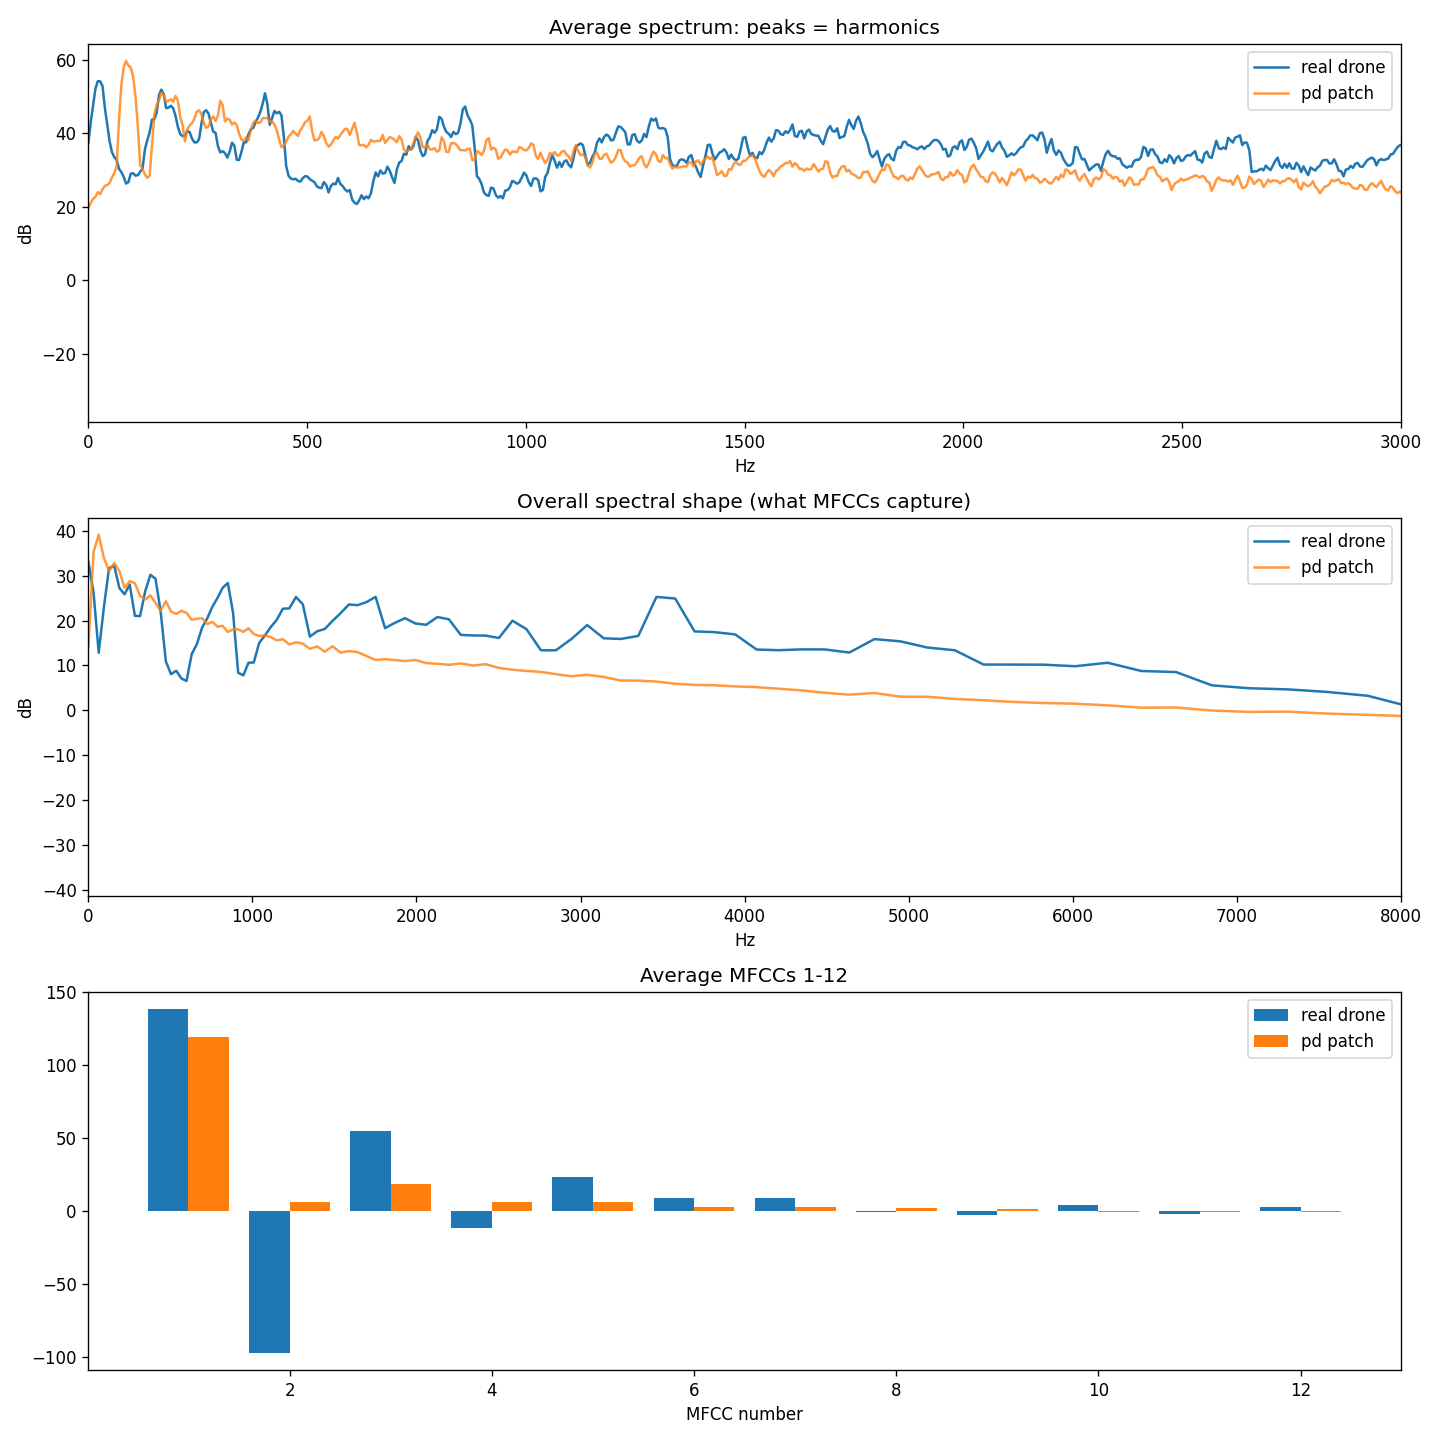
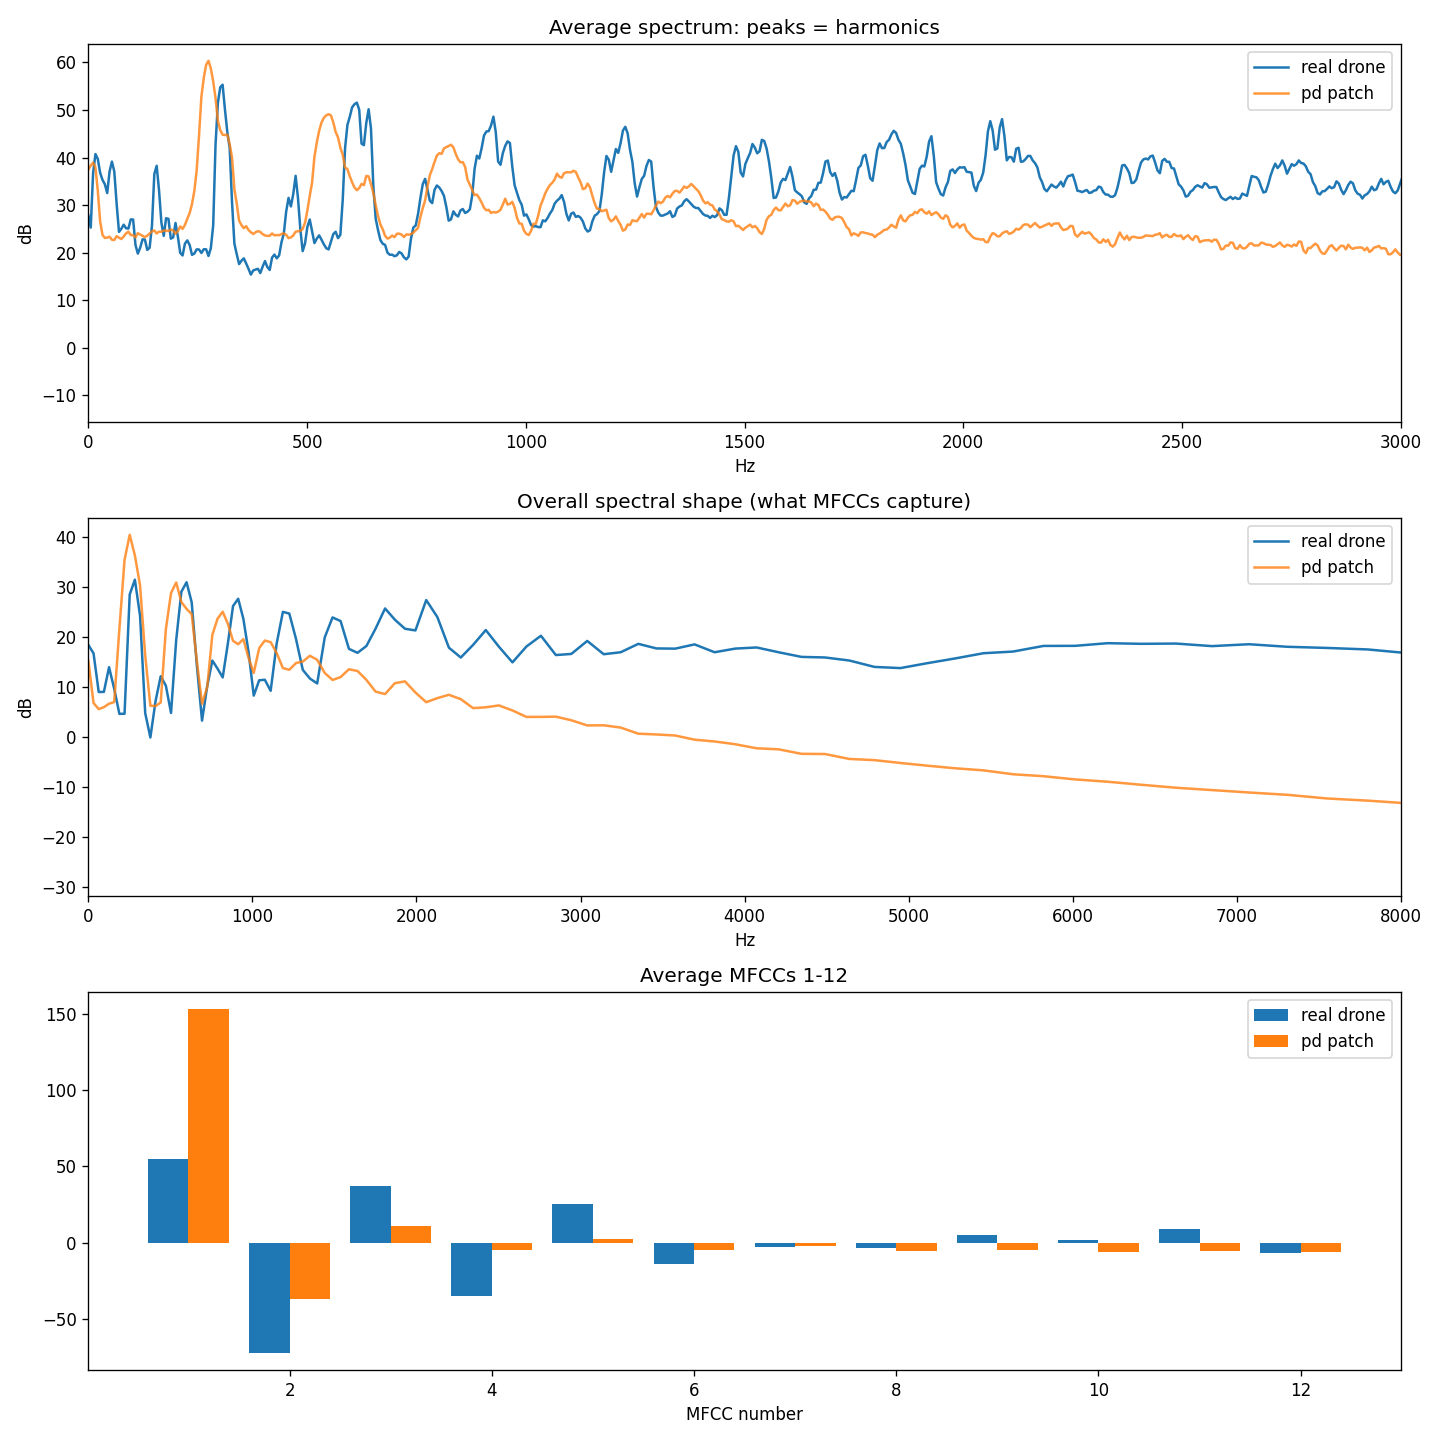
Stuff
some testing + reaper project

diff --git a/MFCC_Drone_PureData (Analyzes Only)/compare.py b/MFCC_Drone_PureData (Analyzes Only)/compare.py
@@ -3,9 +3,9 @@ import numpy as np
 import matplotlib.pyplot as plt
 from scipy.signal import find_peaks
 
-REAL_FILE, REAL_START = "fpv_drone.wav", 0      # stable stretch of the real drone
-PD_FILE,   PD_START   = "pd_drone_3.wav", 2   # skip the first 2 s of the patch
-DURATION = 1.8
+REAL_FILE, REAL_START = "glasgow_d12.wav", 0      # stable stretch of the real drone
+PD_FILE,   PD_START   = "pd_drone.wav", 0   # skip the first 2 s of the patch
+DURATION = 10
 SR = 44100
 N_FFT = 8192
 HOP = 512

diff --git a/DEMO Test (Reaper)/stems/ATTRIBUTION.md b/DEMO Test (Reaper)/stems/ATTRIBUTION.md
@@ -1,0 +1,97 @@
+# Attribution: war and distracter stems
+
+The WAV files under `war/` and `distracter/` are processed excerpts (mono, at most 10 s, level-normalised,
+some denoised; `scripts/build_stems.py`) of clips from FSD50K (Fonseca et al., "FSD50K: an open dataset of
+human-labeled sound events", IEEE/ACM TASLP 30, 2022; https://zenodo.org/records/4060432), originally from
+Freesound (https://freesound.org). Each clip keeps its own licence, listed below with its uploader.
+CC BY clips require this attribution to stay with them. `manifest.csv` holds the full processing record.
+
+`data/processed/war/war_track.wav` (101 MB) is not in git: GitHub refuses files over 100 MB. It is rebuilt
+exactly from these stems and a fixed seed by `scripts/war_track.py`; its `events.csv` and `phases.csv` are here.
+
+| File | Class | FSD50K id (split) | Title | Uploader | Licence |
+|---|---|---|---|---|---|
+| `distracter/aircraft/fsd50k_eval_122807.wav` | aircraft | 122807 (eval) | plane_air_italy_boeing.mp3 | geodylabs | CC BY 3.0 |
+| `distracter/aircraft/fsd50k_eval_221665.wav` | aircraft | 221665 (eval) | CommercialJetTakeoffBinaural.WAV | daveincamas | CC BY 3.0 |
+| `distracter/aircraft/fsd50k_eval_325845.wav` | aircraft | 325845 (eval) | Airplane inside ambient- cessna 414. condenser .mp3 | Daveshu88 | CC0 1.0 |
+| `distracter/birds/fsd50k_eval_417743.wav` | birds | 417743 (eval) | amb-bird-chirping-001.flac | Starscade | CC0 1.0 |
+| `distracter/birds/fsd50k_eval_427369.wav` | birds | 427369 (eval) | birds swarm in bush.wav | Douglas711 | CC0 1.0 |
+| `distracter/buzzing_insect/fsd50k_dev_233783.wav` | buzzing_insect | 233783 (dev) | BUMBLEBEE 12.wav | delphidebrain | CC BY 3.0 |
+| `distracter/buzzing_insect/fsd50k_dev_273214.wav` | buzzing_insect | 273214 (dev) | BeesBuzzing2May2nd2015bitrate48.WAV | kvgarlic | CC0 1.0 |
+| `distracter/buzzing_insect/fsd50k_eval_395593.wav` | buzzing_insect | 395593 (eval) | Fly.wav | BeeProductive | CC0 1.0 |
+| `distracter/car/fsd50k_eval_336754.wav` | car | 336754 (eval) | Car Drive by 03.WAV | luminadii | CC BY 3.0 |
+| `distracter/car/fsd50k_eval_336758.wav` | car | 336758 (eval) | Car drive by 05.WAV | luminadii | CC BY 3.0 |
+| `distracter/car/fsd50k_eval_336762.wav` | car | 336762 (eval) | Car drive by 07.WAV | luminadii | CC BY 3.0 |
+| `distracter/chainsaw/fsd50k_dev_157611.wav` | chainsaw | 157611 (dev) | Exterior_Chainsaw.wav | DJillcom | CC0 1.0 |
+| `distracter/chainsaw/fsd50k_dev_345994.wav` | chainsaw | 345994 (dev) | Chainsaw_2.WAV | ivolipa | CC0 1.0 |
+| `distracter/chainsaw/fsd50k_dev_431739.wav` | chainsaw | 431739 (dev) | Chainsaw Cut.wav | Stefan021 | CC0 1.0 |
+| `distracter/dog/fsd50k_eval_102547.wav` | dog | 102547 (eval) | dog barking 3 (Rottweiler).aif | Tomlija | CC BY 3.0 |
+| `distracter/dog/fsd50k_eval_328055.wav` | dog | 328055 (eval) | BIG DOGS_Continues Barking Labrador Retriever (SFX).wav | GuntherDorksen | CC BY 3.0 |
+| `distracter/dog/fsd50k_eval_380440.wav` | dog | 380440 (eval) | Dog Bark + Mysterious Gurgle.wav | FullMetalJedi | CC0 1.0 |
+| `distracter/explosion/fsd50k_eval_211436.wav` | explosion | 211436 (eval) | Explosion002.wav | klangfabrik | CC0 1.0 |
+| `distracter/explosion/fsd50k_eval_220062.wav` | explosion | 220062 (eval) | Explosion004.wav | klangfabrik | CC0 1.0 |
+| `distracter/explosion/fsd50k_eval_95812.wav` | explosion | 95812 (eval) | red_flame.wav | cormi | CC0 1.0 |
+| `distracter/generator/fsd50k_dev_164306.wav` | generator | 164306 (dev) | GeneratorEngine.wav | thegreenguerilla | CC BY 3.0 |
+| `distracter/generator/fsd50k_dev_367175.wav` | generator | 367175 (dev) | generator small 01 | DiscoveryME | CC0 1.0 |
+| `distracter/generator/fsd50k_eval_406110.wav` | generator | 406110 (eval) | Generator.wav | Yin_Yang_Jake007 | CC0 1.0 |
+| `distracter/gunfire/fsd50k_eval_174290.wav` | gunfire | 174290 (eval) | REC_1_AT897_STR.wav | ingudios | CC BY 3.0 |
+| `distracter/gunfire/fsd50k_eval_204949.wav` | gunfire | 204949 (eval) | m4-carbine improved.wav | tehlordoswag420 | CC BY 3.0 |
+| `distracter/gunfire/fsd50k_eval_249146.wav` | gunfire | 249146 (eval) | 50 CAL Machine Gun.wav | klangfabrik | CC0 1.0 |
+| `distracter/helicopter/fsd50k_dev_181071.wav` | helicopter | 181071 (dev) | helicopter1.wav | dwareing | CC0 1.0 |
+| `distracter/helicopter/fsd50k_eval_263458.wav` | helicopter | 263458 (eval) | Cobra_Helicopter_Flyover_Ext.wav | Cell31_Sound_Productions | CC BY 3.0 |
+| `distracter/helicopter/fsd50k_eval_322179.wav` | helicopter | 322179 (eval) | NH90_flyby.aif | ikbenraar | CC0 1.0 |
+| `distracter/idling/fsd50k_eval_396463.wav` | idling | 396463 (eval) | chainsaw_start.wav | Jedo | CC0 1.0 |
+| `distracter/idling/fsd50k_eval_406110.wav` | idling | 406110 (eval) | Generator.wav | Yin_Yang_Jake007 | CC0 1.0 |
+| `distracter/mosquito/fsd50k_dev_188708.wav` | mosquito | 188708 (dev) | Flying Mosquito.wav | Zywx | CC0 1.0 |
+| `distracter/mosquito/fsd50k_dev_98648.wav` | mosquito | 98648 (dev) | 20100606.mosquito.wav | dobroide | CC BY 3.0 |
+| `distracter/mosquito/fsd50k_eval_320723.wav` | mosquito | 320723 (eval) | mosquito sound.wav | djfroyd | CC BY 3.0 |
+| `distracter/motorcycle/fsd50k_eval_1045.wav` | motorcycle | 1045 (eval) | rbh Harley by 04.wav | RHumphries | CC BY 3.0 |
+| `distracter/motorcycle/fsd50k_eval_22615.wav` | motorcycle | 22615 (eval) | bike3.flac | Erdie | CC BY 3.0 |
+| `distracter/motorcycle/fsd50k_eval_244503.wav` | motorcycle | 244503 (eval) | motorcycles on the forest highway.wav | Silentwaves | CC BY 3.0 |
+| `distracter/mower/fsd50k_dev_156223.wav` | mower | 156223 (dev) | Lawnmower background sound | astrand | CC0 1.0 |
+| `distracter/mower/fsd50k_dev_267973.wav` | mower | 267973 (dev) | Lawn Mower.wav | Roulaine | CC BY 3.0 |
+| `distracter/mower/fsd50k_dev_97595.wav` | mower | 97595 (dev) | Rotary_Lawnmower_Long.wav | MegMc | CC0 1.0 |
+| `distracter/power_tool/fsd50k_eval_128607.wav` | power_tool | 128607 (eval) | Drill_sound.wav | 1pjladd2 | CC0 1.0 |
+| `distracter/power_tool/fsd50k_eval_262265.wav` | power_tool | 262265 (eval) | Drill | GowlerMusic | CC BY 3.0 |
+| `distracter/power_tool/fsd50k_eval_318203.wav` | power_tool | 318203 (eval) | Drilling into stone.wav | PapercutterJohn | CC0 1.0 |
+| `distracter/prop_plane/fsd50k_dev_369482.wav` | prop_plane | 369482 (dev) | Small Aircraft Katana DV20 - outside | Alcappuccino | CC0 1.0 |
+| `distracter/prop_plane/fsd50k_dev_403316.wav` | prop_plane | 403316 (dev) | A small propeller plane.wav | straget | CC0 1.0 |
+| `distracter/prop_plane/fsd50k_eval_431206.wav` | prop_plane | 431206 (eval) | Airplane Flyby | oscaraudiogeek | CC0 1.0 |
+| `distracter/scooter/fsd50k_dev_166717.wav` | scooter | 166717 (dev) | Moped driving by | Bradovic | CC0 1.0 |
+| `distracter/scooter/fsd50k_dev_3185.wav` | scooter | 3185 (dev) | PassingMoped01.wav | Pingel | CC0 1.0 |
+| `distracter/scooter/fsd50k_dev_55035.wav` | scooter | 55035 (dev) | Scooter.wav | suonidigenova | CC0 1.0 |
+| `distracter/shout/fsd50k_eval_102437.wav` | shout | 102437 (eval) | scottstoked_yeehaw.wav | shawshank73 | CC BY 3.0 |
+| `distracter/shout/fsd50k_eval_196128.wav` | shout | 196128 (eval) | screechyscreams.ogg | insanity54 | CC0 1.0 |
+| `distracter/shout/fsd50k_eval_376638.wav` | shout | 376638 (eval) | Enemy Spotted!/Over There! Voice Lines (Mixed) | EFlexTheSoundDesigner | CC BY 3.0 |
+| `distracter/siren/fsd50k_eval_405585.wav` | siren | 405585 (eval) | Siren ( Carpeted Hallway Ambient ).wav | JohnLaVine333 | CC0 1.0 |
+| `distracter/siren/fsd50k_eval_405590.wav` | siren | 405590 (eval) | Siren ( Concrete Stairwell Direct ).wav | JohnLaVine333 | CC0 1.0 |
+| `distracter/siren/fsd50k_eval_53448.wav` | siren | 53448 (eval) | fire.wav | guitarguy1985 | CC0 1.0 |
+| `distracter/thunder/fsd50k_eval_347855.wav` | thunder | 347855 (eval) | thunder boom.wav | cognito perceptu | CC0 1.0 |
+| `distracter/thunder/fsd50k_eval_387021.wav` | thunder | 387021 (eval) | Thunder clap | valibuck | CC BY 3.0 |
+| `distracter/thunder/fsd50k_eval_397952.wav` | thunder | 397952 (eval) | Thunder Clap And Rumble | Kinoton | CC0 1.0 |
+| `distracter/truck/fsd50k_eval_174618.wav` | truck | 174618 (eval) | Truck Starting 001.wav | yottasounds | CC BY 3.0 |
+| `distracter/truck/fsd50k_eval_333917.wav` | truck | 333917 (eval) | Parked truck.mp3 | thearxx08 | CC0 1.0 |
+| `distracter/truck/fsd50k_eval_52303.wav` | truck | 52303 (eval) | truck reverse.aif | trip2000 | CC0 1.0 |
+| `war/air_raid_siren/fsd50k_dev_262278.wav` | air_raid_siren | 262278 (dev) | Warning Siren / War Siren  - Trondheim Norway.mp3 | Ubehag | CC0 1.0 |
+| `war/explosion_far/fsd50k_dev_130974.wav` | explosion_far | 130974 (dev) | Large, Low Boom 2.wav | duckduckpony | CC BY 3.0 |
+| `war/explosion_far/fsd50k_dev_156499.wav` | explosion_far | 156499 (dev) | Medium Far Explosion | unfa | CC BY 3.0 |
+| `war/explosion_far/fsd50k_dev_156500.wav` | explosion_far | 156500 (dev) | Big Far Explosion | unfa | CC BY 3.0 |
+| `war/jet/fsd50k_dev_431473.wav` | jet | 431473 (dev) | F35 Jet Low-Flyby.mp3 | johnnythesalesman | CC BY 3.0 |
+| `war/jet/fsd50k_eval_397165.wav` | jet | 397165 (eval) | JetFighter01.wav | FullMetalJedi | CC0 1.0 |
+| `war/jet/fsd50k_eval_420560.wav` | jet | 420560 (eval) | Fighter Jets Passing Overhead | Nice_Audio | CC0 1.0 |
+| `war/machine_gun/fsd50k_dev_101961.wav` | machine_gun | 101961 (dev) | Heavy machine gun.wav | CGEffex | CC BY 3.0 |
+| `war/machine_gun/fsd50k_dev_160773.wav` | machine_gun | 160773 (dev) | Maxim Russian machinegun | poissonmort | CC BY 3.0 |
+| `war/machine_gun/fsd50k_dev_417688.wav` | machine_gun | 417688 (dev) | LightMachineGun1.wav | SuperPhat | CC0 1.0 |
+| `war/mortar_artillery/fsd50k_dev_171475.wav` | mortar_artillery | 171475 (dev) | Artillery (distance) | 2887679652 | CC BY 3.0 |
+| `war/mortar_artillery/fsd50k_dev_184275.wav` | mortar_artillery | 184275 (dev) | Distant Tank Shots.flac | qubodup | CC0 1.0 |
+| `war/mortar_artillery/fsd50k_dev_187767.wav` | mortar_artillery | 187767 (dev) | Cannon Shot | qubodup | CC0 1.0 |
+| `war/mortar_artillery/fsd50k_dev_426161.wav` | mortar_artillery | 426161 (dev) | M224 Mortar Firing Close 03 | Nanashi | CC BY 3.0 |
+| `war/mortar_artillery/fsd50k_dev_426165.wav` | mortar_artillery | 426165 (dev) | M224 Mortar Impact  Distant 02 | Nanashi | CC BY 3.0 |
+| `war/shout/fsd50k_dev_187294.wav` | shout | 187294 (dev) | "They're braking in" and "we're trapped!" | unfa | CC BY 3.0 |
+| `war/shout/fsd50k_dev_362665.wav` | shout | 362665 (dev) | batlle shouts: Come over, this way, hey, over here | 11linda | CC BY 3.0 |
+| `war/shout/fsd50k_dev_387829.wav` | shout | 387829 (dev) | medic medic voice | CosmicEmbers | CC BY 3.0 |
+| `war/small_arms/fsd50k_eval_174290.wav` | small_arms | 174290 (eval) | REC_1_AT897_STR.wav | ingudios | CC BY 3.0 |
+| `war/small_arms/fsd50k_eval_204949.wav` | small_arms | 204949 (eval) | m4-carbine improved.wav | tehlordoswag420 | CC BY 3.0 |
+| `war/small_arms/fsd50k_eval_259758.wav` | small_arms | 259758 (eval) | M4 Assault rifle firing.wav | mnslugger20 | CC0 1.0 |
+| `war/tank/fsd50k_dev_161886.wav` | tank | 161886 (dev) | WAR-TANK, LEOPARD-ACCELERATION, TURBO-Leopard 2A4 engine acceleration, close by-0002.wav | JoniHeinonen | CC BY 3.0 |
+| `war/tank/fsd50k_dev_187676.wav` | tank | 187676 (dev) | Driving Tank Engine.flac | qubodup | CC0 1.0 |
